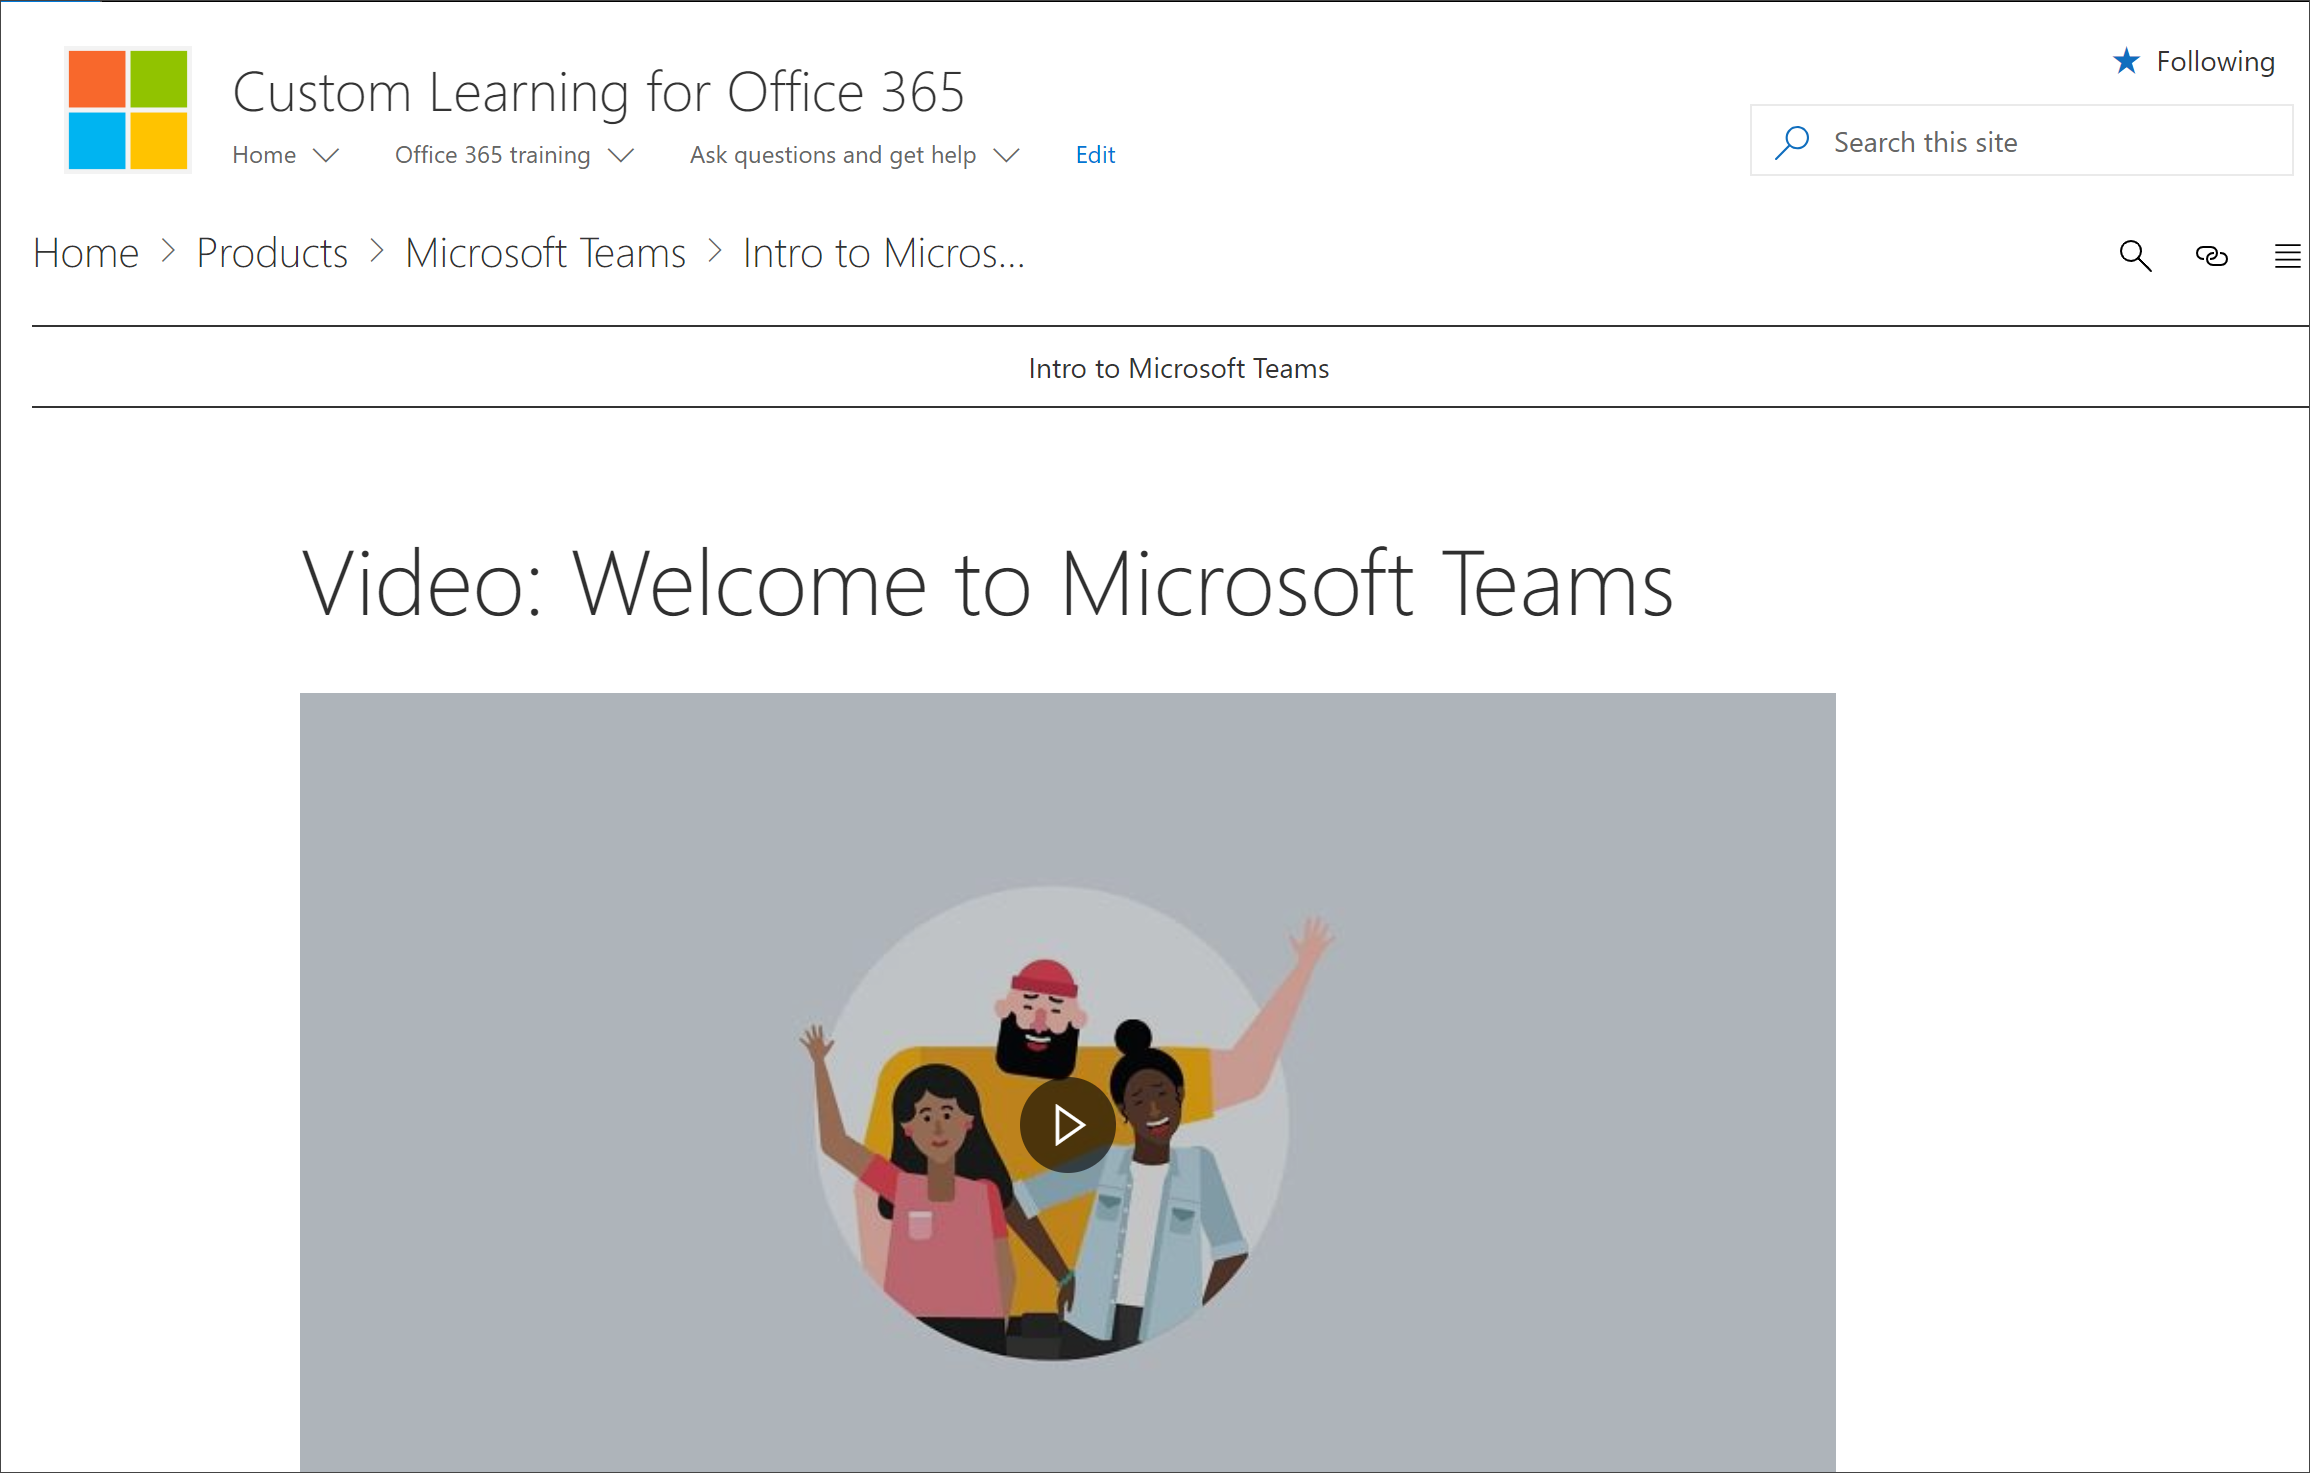
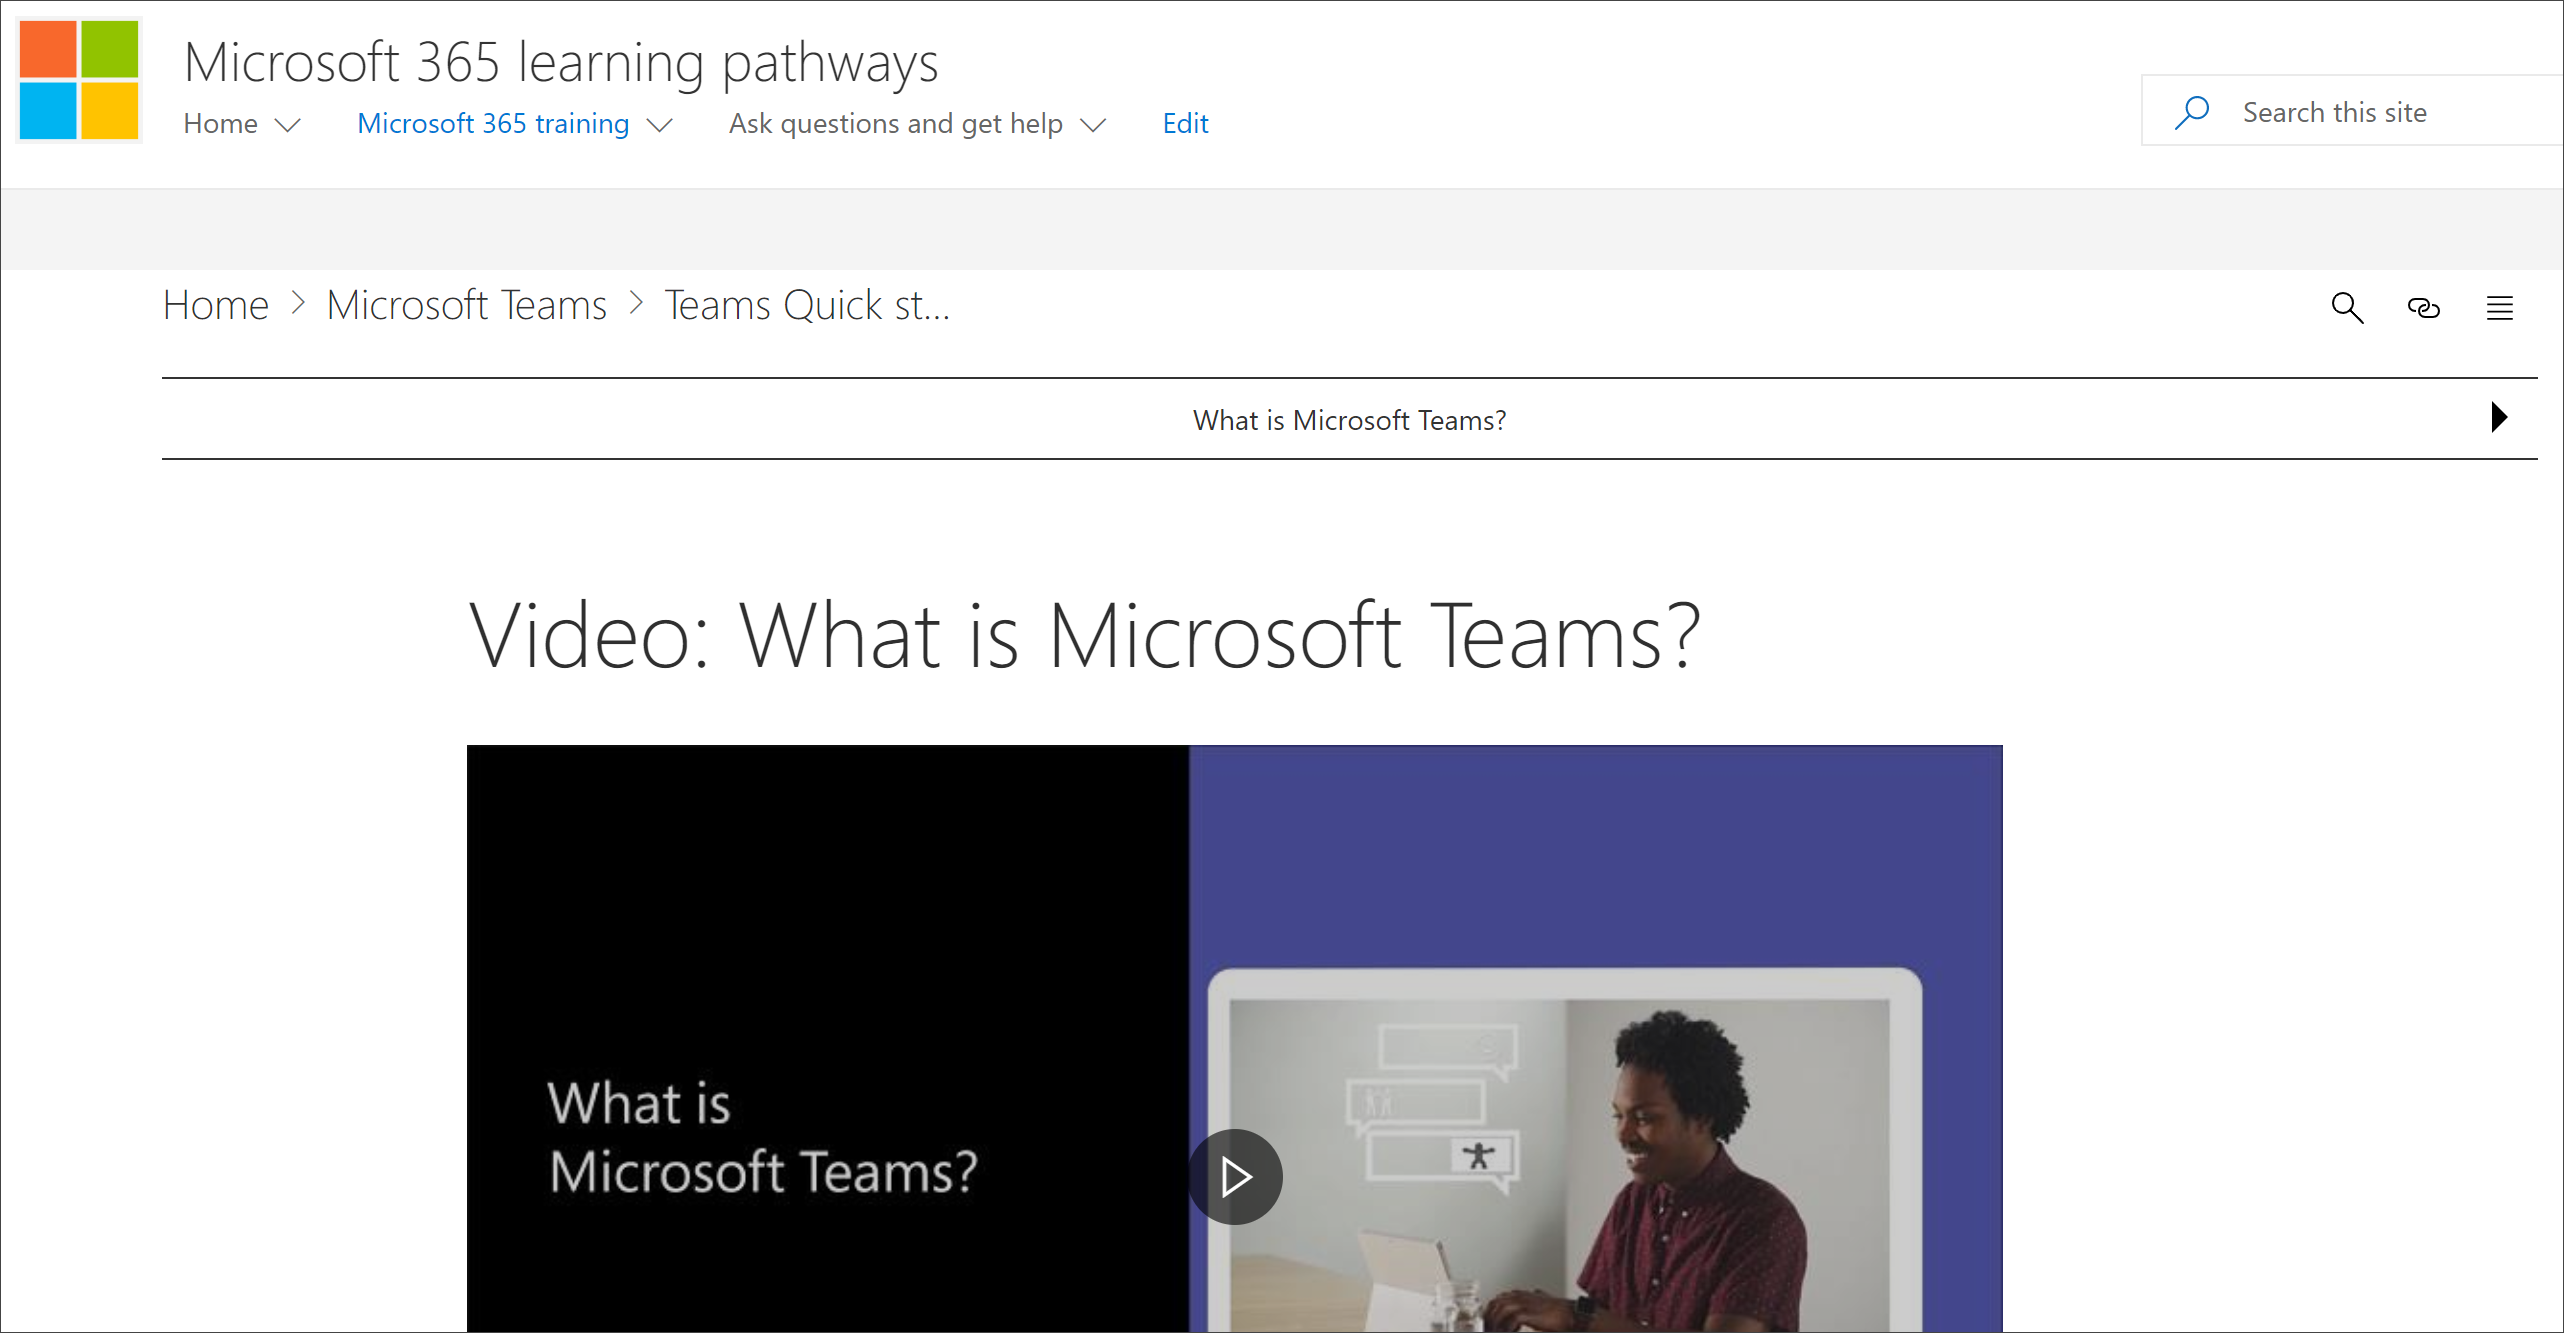
m365 rebrand

diff --git a/CustomLearning/custom_apppages.md b/CustomLearning/custom_apppages.md
@@ -1,21 +1,21 @@
----
+Mi---
 author: pkrebs
 ms.author: pkrebs
 title:  Get to know the SharePoint Application pages
 ms.date: 02/15/2019
-description: Learn about the functionality of SharePoint Application Pages in Custom Learning
+description: Learn about the functionality of SharePoint Application Pages in Microsoft 365 learning pathways
 ---
 
 # Get to know the SharePoint Application pages
 
-Custom Learning provides two SharePoint Application pages that you should know about as an administrator of Custom Learning. These two pages are non-editable. 
+Learning pathways provides two SharePoint Application pages that you should know about as an administrator. These two pages are non-editable. 
 
 - CustomLearningAdmin.aspx
 - CustomLearningViewer.aspx
 
 ## CustomLearningAdmin.aspx
 
-The CustomLearningAdmin.aspx page provides Administrative features for Custom Learning, including hiding and showing content and creating and editing subcategories and playlists. We’ll cover this page and its functionality in more detail in later sections.
+The CustomLearningAdmin.aspx page provides Administrative features for learning pathways, including hiding and showing content and creating and editing subcategories and playlists. We’ll cover this page and its functionality in more detail in later sections.
 
 ### View CustomLearningAdmin.aspx
 
@@ -25,7 +25,7 @@ The CustomLearningAdmin.aspx page provides Administrative features for Custom Le
 ![cg-adminapppage.png](media/cg-adminapppage.png)
 
 ## CustomLearningViewer.aspx
-The CustomLearningViewer.aspx page provides a viewer for displaying Custom Learning contents in the web part. For example, if you copy a Playlist link and share it with a co-worker, the link, when clicked, takes the user to the Viewer page and displays the linked content. We’ll cover this page and its functionality in more detail in later topics.
+The CustomLearningViewer.aspx page provides a viewer for displaying learning pathways contents in the web part. For example, if you copy a Playlist link and share it with a co-worker, the link, when clicked, takes the user to the Viewer page and displays the linked content. We’ll cover this page and its functionality in more detail in later topics.
 
 ### View CustomLearningViewer.aspx
 
